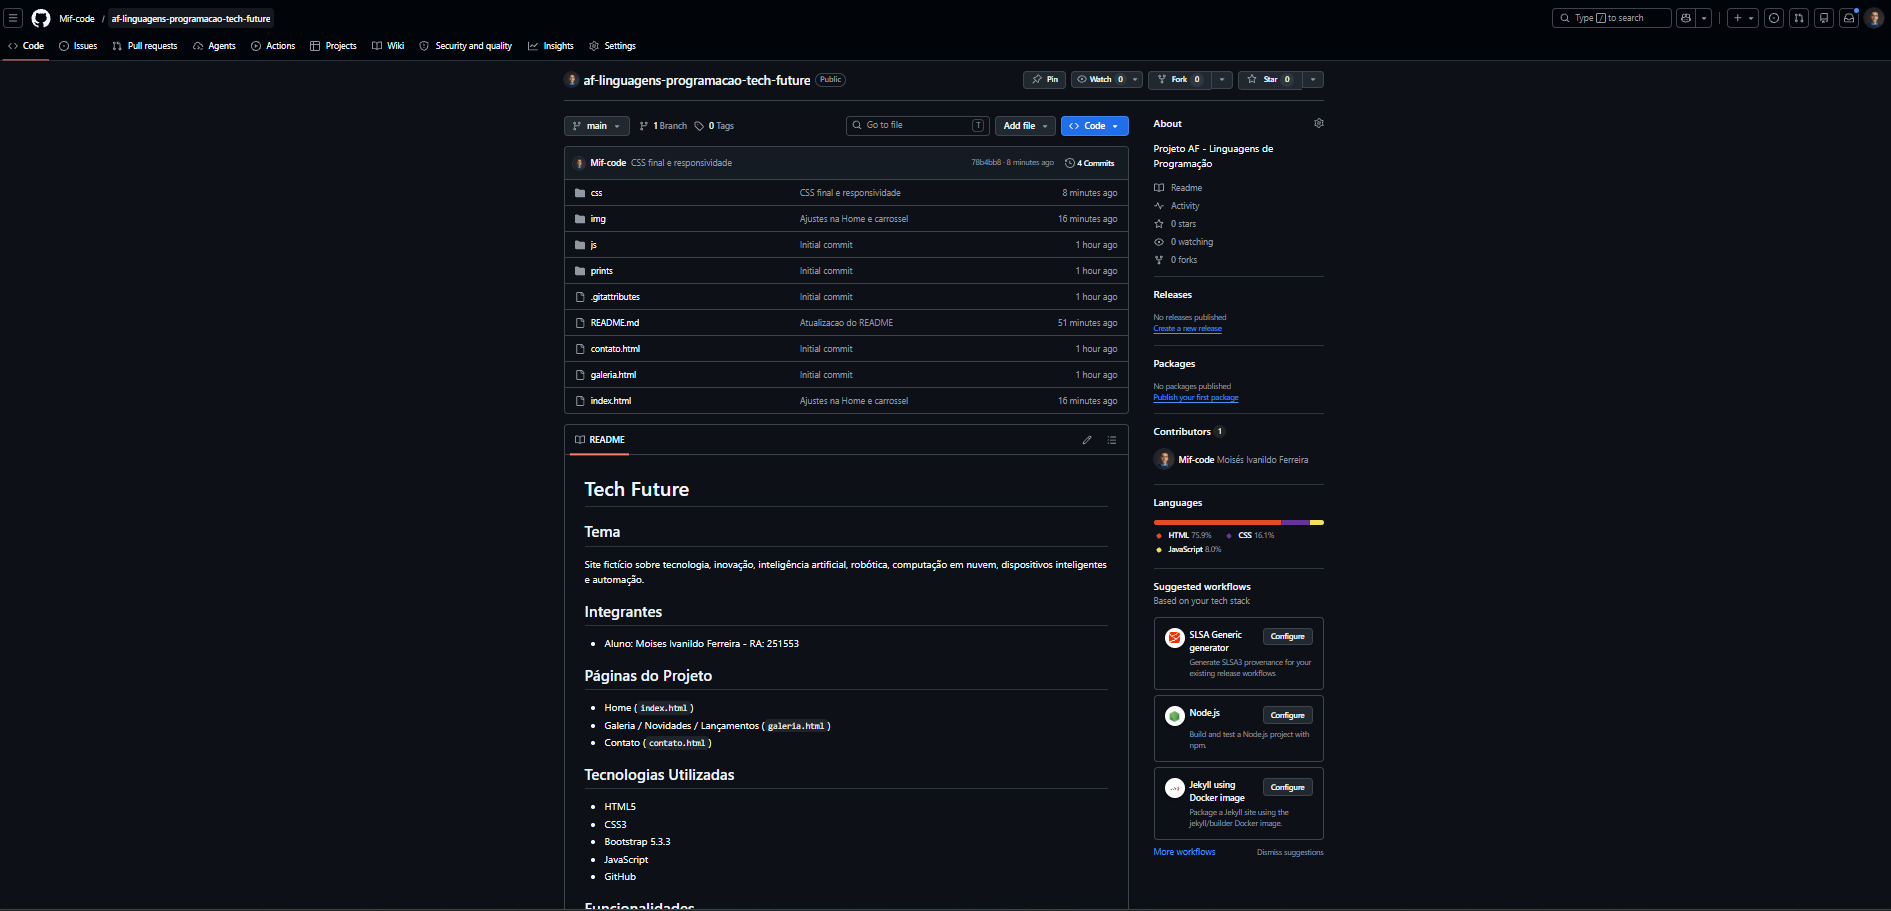
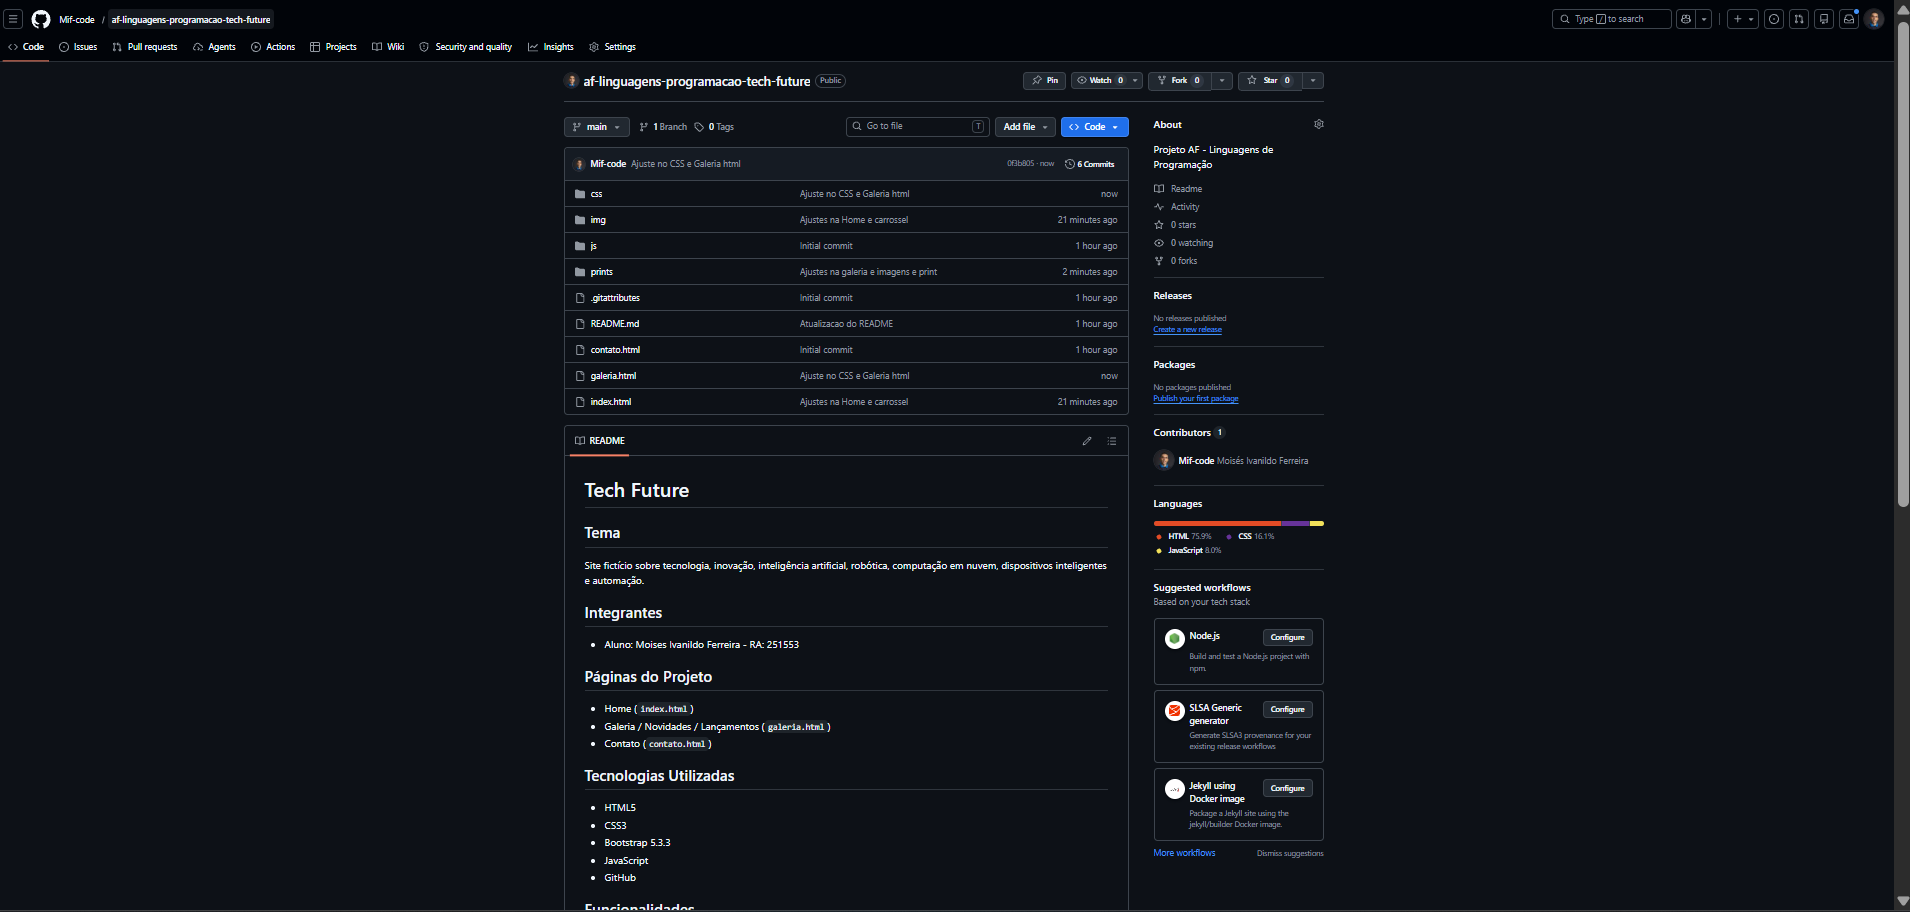
Ajustes finais na pagina de contato

diff --git a/contato.html b/contato.html
@@ -7,60 +7,364 @@ Data de entrega: 07/06
 -->
 <!DOCTYPE html>
 <html lang="pt-br">
+
 <head>
     <meta charset="UTF-8">
     <meta name="viewport" content="width=device-width, initial-scale=1.0">
+
     <title>Tech Future - Contato</title>
+
+    <!-- Bootstrap -->
     <link href="https://cdn.jsdelivr.net/npm/bootstrap@5.3.3/dist/css/bootstrap.min.css" rel="stylesheet">
+
+    <!-- CSS -->
     <link rel="stylesheet" href="./css/style.css">
 </head>
+
 <body>
+
+    <!-- HEADER -->
     <header>
+
         <nav class="navbar navbar-expand-lg navbar-dark bg-dark fixed-top">
-            <div class="container"><a class="navbar-brand" href="index.html">Tech Future</a><button class="navbar-toggler" type="button" data-bs-toggle="collapse" data-bs-target="#menuPrincipal" aria-controls="menuPrincipal" aria-expanded="false" aria-label="Abrir menu"><span class="navbar-toggler-icon"></span></button><div class="collapse navbar-collapse" id="menuPrincipal"><ul class="navbar-nav ms-auto"><li class="nav-item"><a class="nav-link" href="index.html">Home</a></li><li class="nav-item"><a class="nav-link" href="galeria.html">Galeria</a></li><li class="nav-item"><a class="nav-link active" href="contato.html">Contato</a></li></ul><button id="btnTema" class="btn btn-outline-info btn-sm ms-lg-3 mt-3 mt-lg-0" type="button">Alternar tema</button></div></div>
+
+            <div class="container">
+
+                <a class="navbar-brand" href="index.html">
+                    Tech Future
+                </a>
+
+                <button class="navbar-toggler"
+                    type="button"
+                    data-bs-toggle="collapse"
+                    data-bs-target="#menuPrincipal"
+                    aria-controls="menuPrincipal"
+                    aria-expanded="false"
+                    aria-label="Abrir menu">
+
+                    <span class="navbar-toggler-icon"></span>
+
+                </button>
+
+                <div class="collapse navbar-collapse" id="menuPrincipal">
+
+                    <ul class="navbar-nav ms-auto">
+
+                        <li class="nav-item">
+                            <a class="nav-link" href="index.html">
+                                Home
+                            </a>
+                        </li>
+
+                        <li class="nav-item">
+                            <a class="nav-link" href="galeria.html">
+                                Galeria
+                            </a>
+                        </li>
+
+                        <li class="nav-item">
+                            <a class="nav-link active" href="contato.html">
+                                Contato
+                            </a>
+                        </li>
+
+                    </ul>
+
+                    <button id="btnTema"
+                        class="btn btn-outline-info btn-sm ms-lg-3 mt-3 mt-lg-0"
+                        type="button">
+
+                        Alternar tema
+
+                    </button>
+
+                </div>
+            </div>
         </nav>
     </header>
 
+    <!-- MAIN -->
     <main>
+
         <section class="container animado">
+
             <div class="text-center mb-5">
-                <h1 class="titulo-gradiente">Contato</h1>
-                <p class="subtitulo">Preencha o formulário abaixo para falar com a equipe fictícia do Tech Future.</p>
+
+                <h1 class="titulo-gradiente">
+                    Contato
+                </h1>
+
+                <p class="subtitulo">
+                    Preencha o formulário abaixo para falar com a equipe fictícia do Tech Future.
+                </p>
+
             </div>
+
             <div class="row g-4">
+
+                <!-- FORMULÁRIO -->
                 <article class="col-lg-7">
+
                     <div class="form-card">
-                        <h2 class="h4 mb-4">Envie sua mensagem</h2>
-                        <form id="formContato" class="form-contato" action="#" method="post">
-                            <div class="mb-3"><label for="nome" class="form-label">Nome completo:</label><input type="text" id="nome" name="nome" class="form-control" required minlength="3" placeholder="Digite seu nome completo"></div>
-                            <div class="mb-3"><label for="email" class="form-label">E-mail:</label><input type="email" id="email" name="email" class="form-control" required placeholder="seunome@email.com"></div>
-                            <div class="mb-3"><label for="telefone" class="form-label">Telefone:</label><input type="tel" id="telefone" name="telefone" class="form-control" placeholder="(00) 00000-0000" pattern="\([0-9]{2}\) [0-9]{4,5}-[0-9]{4}"></div>
-                            <div class="mb-3"><label for="assunto" class="form-label">Assunto:</label><select id="assunto" name="assunto" class="form-select" required><option value="">Selecione uma opção</option><option value="duvida">Dúvida</option><option value="orcamento">Orçamento</option><option value="parceria">Parceria</option><option value="sugestao">Sugestão</option></select></div>
-                            <div class="mb-3"><label for="mensagem" class="form-label">Mensagem:</label><textarea id="mensagem" name="mensagem" class="form-control" rows="5" required placeholder="Escreva sua mensagem"></textarea></div>
-                            <div class="botoes-acoes justify-content-start"><button type="submit" class="btn btn-gradiente">Enviar</button><button type="reset" class="btn btn-secondary">Limpar</button></div>
+
+                        <h2 class="h4 mb-4">
+                            Envie sua mensagem
+                        </h2>
+
+                        <form id="formContato"
+                            class="form-contato"
+                            action="#"
+                            method="post">
+
+                            <div class="mb-3">
+
+                                <label for="nome" class="form-label">
+                                    Nome completo:
+                                </label>
+
+                                <input type="text"
+                                    id="nome"
+                                    name="nome"
+                                    class="form-control"
+                                    required
+                                    minlength="3"
+                                    placeholder="Digite seu nome completo">
+
+                            </div>
+
+                            <div class="mb-3">
+
+                                <label for="email" class="form-label">
+                                    E-mail:
+                                </label>
+
+                                <input type="email"
+                                    id="email"
+                                    name="email"
+                                    class="form-control"
+                                    required
+                                    placeholder="seunome@email.com">
+
+                            </div>
+
+                            <div class="mb-3">
+
+                                <label for="telefone" class="form-label">
+                                    Telefone:
+                                </label>
+
+                                <input type="tel"
+                                    id="telefone"
+                                    name="telefone"
+                                    class="form-control"
+                                    placeholder="(00) 00000-0000"
+                                    pattern="\([0-9]{2}\) [0-9]{4,5}-[0-9]{4}">
+
+                            </div>
+
+                            <div class="mb-3">
+
+                                <label for="assunto" class="form-label">
+                                    Assunto:
+                                </label>
+
+                                <select id="assunto"
+                                    name="assunto"
+                                    class="form-select"
+                                    required>
+
+                                    <option value="">
+                                        Selecione uma opção
+                                    </option>
+
+                                    <option value="duvida">
+                                        Dúvida
+                                    </option>
+
+                                    <option value="orcamento">
+                                        Orçamento
+                                    </option>
+
+                                    <option value="parceria">
+                                        Parceria
+                                    </option>
+
+                                    <option value="sugestao">
+                                        Sugestão
+                                    </option>
+
+                                </select>
+
+                            </div>
+
+                            <div class="mb-3">
+
+                                <label for="mensagem" class="form-label">
+                                    Mensagem:
+                                </label>
+
+                                <textarea id="mensagem"
+                                    name="mensagem"
+                                    class="form-control"
+                                    rows="5"
+                                    required
+                                    placeholder="Escreva sua mensagem"></textarea>
+
+                            </div>
+
+                            <div class="botoes-acoes justify-content-start">
+
+                                <button type="submit"
+                                    class="btn btn-gradiente">
+
+                                    Enviar
+
+                                </button>
+
+                                <button type="reset"
+                                    class="btn btn-secondary">
+
+                                    Limpar
+
+                                </button>
+
+                            </div>
+
                         </form>
                     </div>
                 </article>
+
+                <!-- INFORMAÇÕES -->
                 <aside class="col-lg-5">
+
                     <div class="info-contato mb-4">
-                        <h2 class="h4">Informações fictícias</h2>
-                        <p><strong>Endereço:</strong> Av. da Inovação, 1000 - Sorocaba/SP</p>
-                        <p><strong>Telefone:</strong> (15) 3333-2026</p>
-                        <p><strong>E-mail:</strong> contato@techfuture.com.br</p>
-                        <div class="redes-sociais justify-content-start"><a href="#">Instagram</a><a href="#">LinkedIn</a><a href="#">GitHub</a></div>
+
+                        <h2 class="h4">
+                            Informações fictícias
+                        </h2>
+
+                        <p>
+                            <strong>Endereço:</strong>
+                            Av. da Inovação, 1000 - Sorocaba/SP
+                        </p>
+
+                        <p>
+                            <strong>Telefone:</strong>
+                            (15) 3333-2026
+                        </p>
+
+                        <p>
+                            <strong>E-mail:</strong>
+                            contato@techfuture.com.br
+                        </p>
+
+                        <div class="redes-sociais justify-content-start">
+
+                            <a href="#">
+                                Instagram
+                            </a>
+
+                            <a href="#">
+                                LinkedIn
+                            </a>
+
+                            <a href="#">
+                                GitHub
+                            </a>
+
+                        </div>
+
+                        <!-- AJUSTE EXTRA -->
+                        <p class="mt-3 text-muted">
+                            Atendimento fictício disponível de segunda a sexta,
+                            das 08h às 18h.
+                        </p>
+
                     </div>
+
+                    <!-- MAPA -->
                     <div class="mapa-card">
-                        <h2 class="h4 mb-3">Localização</h2>
-                        <iframe src="https://www.google.com/maps?q=Sorocaba%20SP&output=embed" allowfullscreen="" loading="lazy" referrerpolicy="no-referrer-when-downgrade" title="Mapa de localização fictícia em Sorocaba"></iframe>
+
+                        <h2 class="h4 mb-3">
+                            Localização
+                        </h2>
+
+                        <iframe
+                            src="https://www.google.com/maps?q=Sorocaba%20SP&output=embed"
+                            allowfullscreen=""
+                            loading="lazy"
+                            referrerpolicy="no-referrer-when-downgrade"
+                            title="Mapa de localização fictícia em Sorocaba">
+                        </iframe>
+
                     </div>
                 </aside>
+
             </div>
         </section>
     </main>
 
-    <footer class="rodape"><div class="container footer-flex"><div class="footer-col"><h3 class="h5">Tech Future</h3><p>Projeto acadêmico sem fins comerciais.</p></div><div class="footer-col"><p>Moises Ivanildo Ferreira - RA: 251553</p><p>Turma: 3º Semestre | Linguagens de Programação | 2026</p></div><div class="footer-col"><a href="index.html">Home</a><a href="galeria.html">Galeria</a><a href="contato.html">Contato</a><p class="mt-2">&copy; 2026 - Todos os direitos fictícios.</p></div></div></footer>
-    <button id="btnTopo" class="btn-topo" type="button" aria-label="Voltar ao topo">↑</button>
+    <!-- FOOTER -->
+    <footer class="rodape">
+
+        <div class="container footer-flex">
+
+            <div class="footer-col">
+
+                <h3 class="h5">
+                    Tech Future
+                </h3>
+
+                <p>
+                    Projeto acadêmico sem fins comerciais.
+                </p>
+
+            </div>
+
+            <div class="footer-col">
+
+                <p>
+                    Moises Ivanildo Ferreira - RA: 251553
+                </p>
+
+                <p>
+                    Turma: 3º Semestre |
+                    Linguagens de Programação |
+                    2026
+                </p>
+
+            </div>
+
+            <div class="footer-col">
+
+                <a href="index.html">Home</a>
+                <a href="galeria.html">Galeria</a>
+                <a href="contato.html">Contato</a>
+
+                <p class="mt-2">
+                    &copy; 2026 - Todos os direitos fictícios.
+                </p>
+
+            </div>
+        </div>
+    </footer>
+
+    <!-- BOTÃO TOPO -->
+    <button id="btnTopo"
+        class="btn-topo"
+        type="button"
+        aria-label="Voltar ao topo">
+
+        ↑
+
+    </button>
+
+    <!-- Bootstrap -->
     <script src="https://cdn.jsdelivr.net/npm/bootstrap@5.3.3/dist/js/bootstrap.bundle.min.js"></script>
+
+    <!-- JS -->
     <script src="./js/script.js"></script>
+
 </body>
+
 </html>
